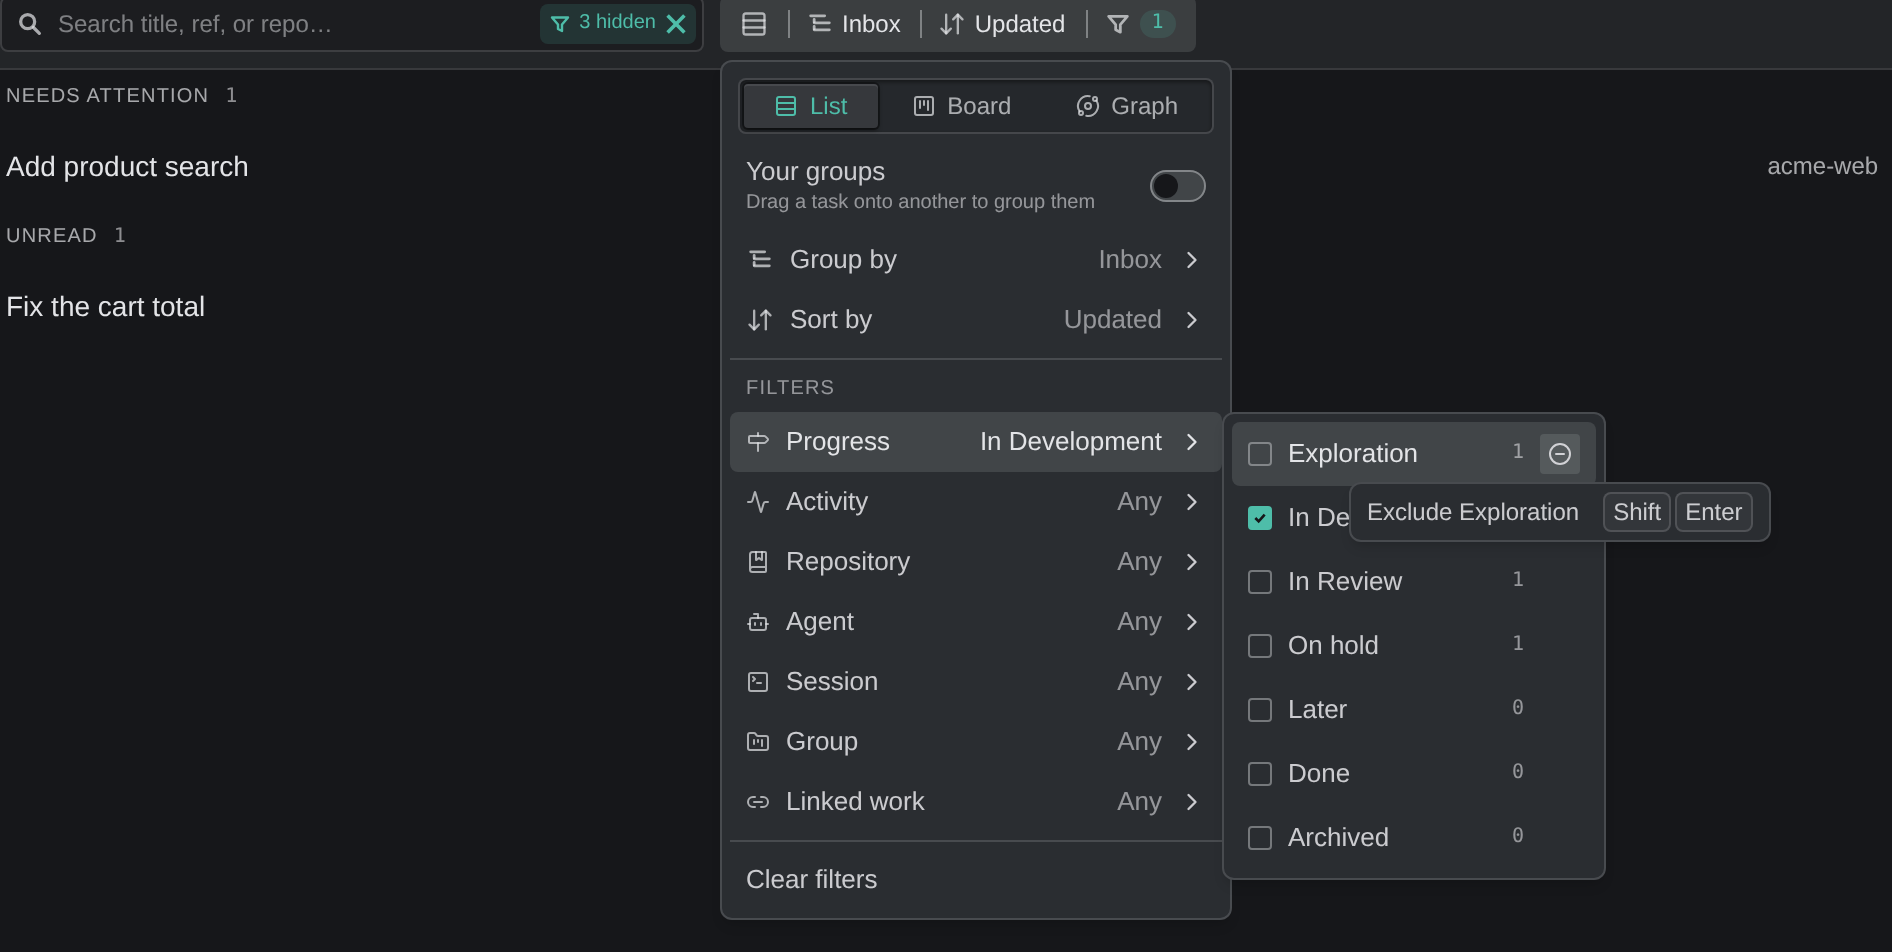
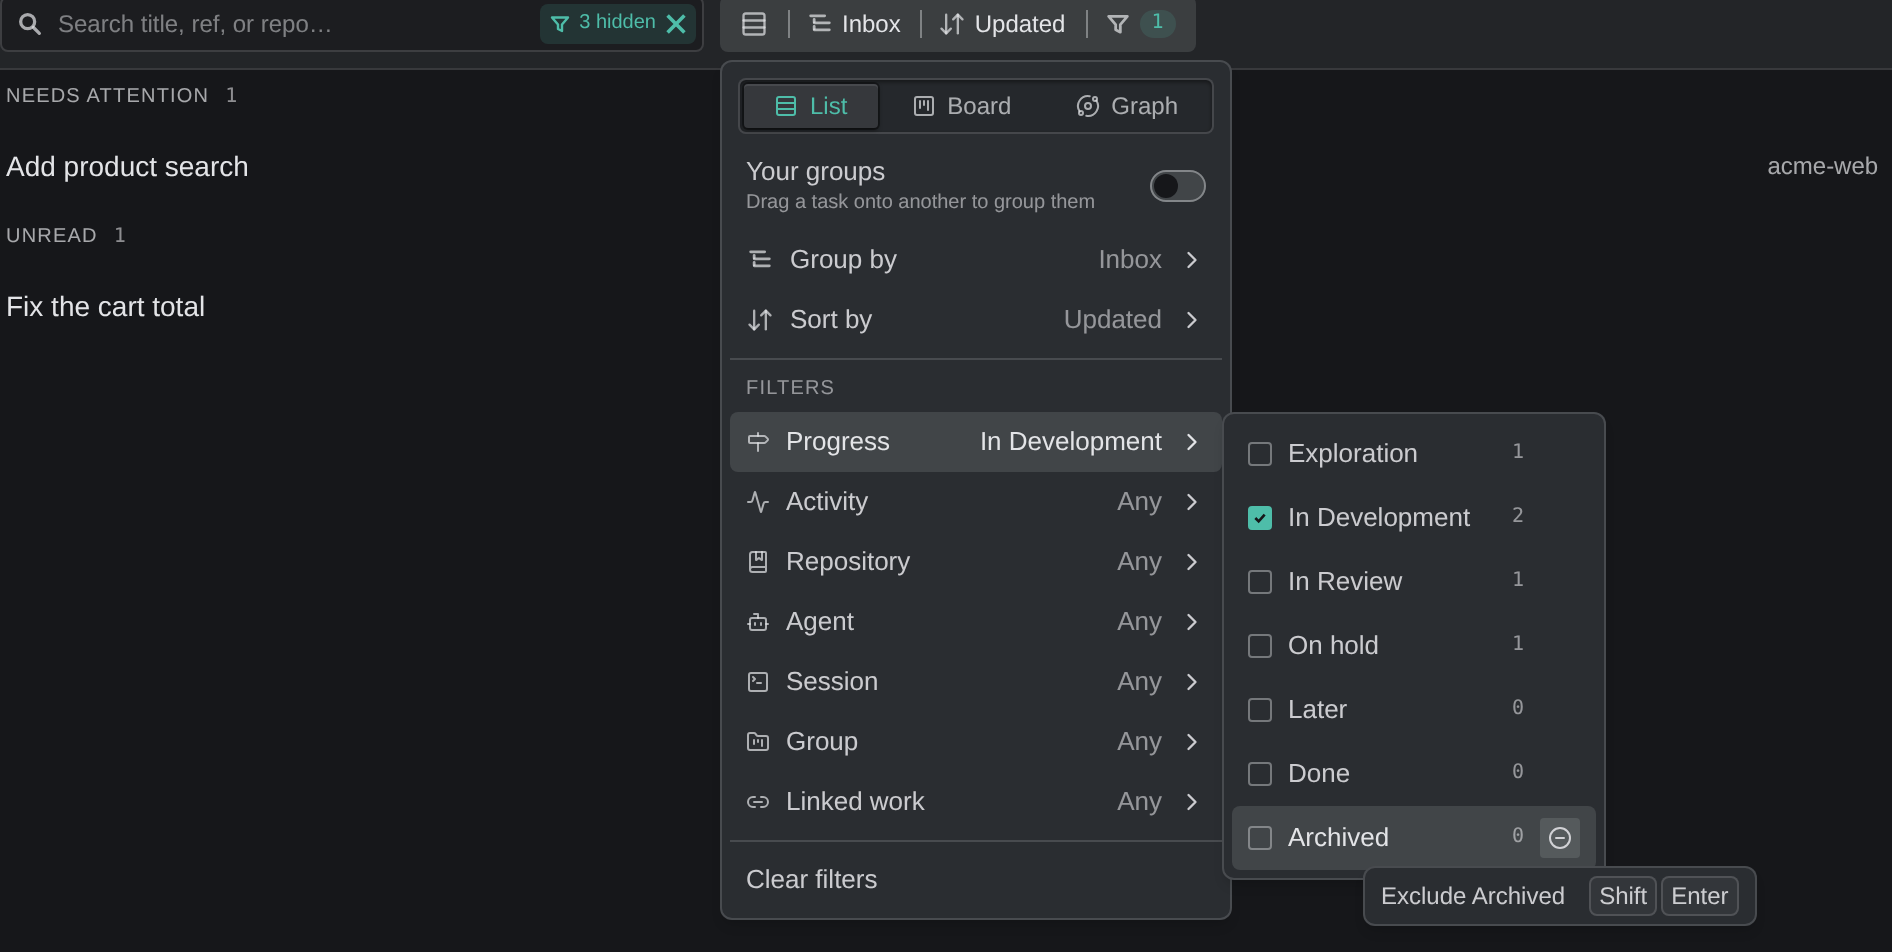
docs(kepler): fix the 3 images the PR #49 visual review failed
- filter-oct-2026-v3@2x.png: recaptured with the exclude tooltip on
  Archived, so the ticked In Development row and its count are readable.
- manual-sort-drag-oct-2026-v3@2x.png: recaptured with the pointer on the
  boundary above the row, so only the reorder line shows (no Create group
  pill over the title).
- changes-edit-working-copy-nov-2026-v2@2x.png: the capture was right;
  the alt now says All commits is picked, and review-changes.md says the
  Since {base} / Since before {sha} chip shows in Changes view (File view
  of a working copy shows Working; ChangesOverlayViewer.tsx at v0.17.0).

Review run: gk-docs-automation docs/capture-review/kepler-pr49-2026-11-03.

Changed region(s): [[0.7172, 0.8529, 0.9355, 0.9748], [0.7172, 0.4569, 0.9355, 0.5788], [0.686, 0.4569, 0.7484, 0.4874]]

diff --git a/kepler/arranging-your-work.md b/kepler/arranging-your-work.md
@@ -426,7 +426,7 @@ Dates sort newest first. **Name** and **ID** sort in ascending order. **ID** com
 
 <figure style="text-align:center">
   <a href="/wp-content/uploads/manual-sort-drag-oct-2026-v3@2x.png" target="_blank" rel="noopener noreferrer">
-    <img src="/wp-content/uploads/manual-sort-drag-oct-2026-v3@2x.png" class="help-center-img img-bordered" alt="Upgrade the payment SDK being dragged to the top of the Unread group under the Manual sort: a green line with a dot sits above Fix the cart total where it will land, Fix the cart total shows a Create group pill for dropping the card onto it instead, the lifted row floats beside it, its own row is dimmed in place, and the Mark as bar covers the toolbar with Read, Exploration, In Development, On hold, Later, Done and Archive task.">
+    <img src="/wp-content/uploads/manual-sort-drag-oct-2026-v3@2x.png" class="help-center-img img-bordered" alt="Upgrade the payment SDK being dragged to the top of the Unread group under the Manual sort: a green line with a dot sits above Fix the cart total where it will land, the lifted row floats beside it, its own row is dimmed in place, and the Mark as bar covers the toolbar with Read, Exploration, In Development, On hold, Later, Done and Archive task.">
   </a>
   <figcaption style="text-align:center; color:#888">Dragging a task to a new place in its section.</figcaption>
 </figure>
@@ -543,7 +543,7 @@ The **Filters** section at the end of the **View** menu has a submenu for each f
 
 <figure style="text-align:center">
   <a href="/wp-content/uploads/filter-oct-2026-v3@2x.png" target="_blank" rel="noopener noreferrer">
-    <img src="/wp-content/uploads/filter-oct-2026-v3@2x.png" class="help-center-img img-bordered" alt="The View menu's Filters section with Progress open on In Development (ticked, 2), and Exploration (1), In Review (1), On hold (1), Later, Done and Archived (each 0), every value listed with its count. Exploration's exclude button is hovered, and its tooltip reads Exclude Exploration with Shift+Enter. The View button counts 1 filter, the search box shows a 3 hidden pill, and the list behind holds Add product search and Fix the cart total.">
+    <img src="/wp-content/uploads/filter-oct-2026-v3@2x.png" class="help-center-img img-bordered" alt="The View menu's Filters section with Progress open on In Development (ticked, 2), and Exploration (1), In Review (1), On hold (1), Later, Done and Archived (each 0), every value listed with its count. Archived's exclude button is hovered, and its tooltip reads Exclude Archived with Shift+Enter. The View button counts 1 filter, the search box shows a 3 hidden pill, and the list behind holds Add product search and Fix the cart total.">
   </a>
   <figcaption style="text-align:center; color:#888">The Filters section, with a facet's flyout open.</figcaption>
 </figure>

diff --git a/kepler/review-changes.md b/kepler/review-changes.md
@@ -213,11 +213,11 @@ An unsaved edit shows **Unsaved** with **Save** and **Discard** beside it. Keple
 
 **Editing a file from a commit.** A file shown from **Commits**, from one commit or all of them, is read-only, but you can switch it to the file on disk. Click **Edit** (**Edit working copy**) in its header, choose **Edit working copy** from its row menu, or press **Cmd/Ctrl+E**. If you start typing in the commit's code, a card reads *Commits are read-only.*, with an **Edit working copy** button.
 
-The file then opens in **File** view, marked **Working**, and diffed from where the commit view started: a chip reads **Since {base}** with **All commits** picked, or **Since before {sha}** with a commit or range picked, which includes every later commit. Kepler keeps your place in the file. **Stop editing** returns to the file as committed, and so does moving to another file or view.
+The file then opens in **File** view, marked **Working**. In **Changes** view the diff counts from where the commit view started, and a chip says so: **Since {base}** with **All commits** picked, or **Since before {sha}** with a commit or range picked, which includes every later commit. Kepler keeps your place in the file. **Stop editing** returns to the file as committed, and so does moving to another file or view.
 
 <figure style="text-align:center">
   <a href="/wp-content/uploads/changes-edit-working-copy-nov-2026-v2@2x.png" target="_blank" rel="noopener noreferrer">
-    <img src="/wp-content/uploads/changes-edit-working-copy-nov-2026-v2@2x.png" class="help-center-img img-bordered" alt="The Changes overlay on the Commits view of kepler/fix-cart-total, with the commit Apply the discount before tax selected above main (branched here) and its file cart.js. The viewer has switched cart.js from the commit to the working copy: its header reads 1 of 1, M, cart.js and Working, with Stop editing beside the File and Changes switch, and the file is open for editing in File view.">
+    <img src="/wp-content/uploads/changes-edit-working-copy-nov-2026-v2@2x.png" class="help-center-img img-bordered" alt="The Changes overlay on the Commits view of kepler/fix-cart-total, with All commits picked above the commit Apply the discount before tax, main (branched here) and the file cart.js. The viewer has switched cart.js to the working copy: its header reads 1 of 1, M, cart.js and Working, with Stop editing beside the File and Changes switch, and the file is open for editing in File view.">
   </a>
   <figcaption style="text-align:center; color:#888">A file from a commit switched to its working copy, ready to edit.</figcaption>
 </figure>
